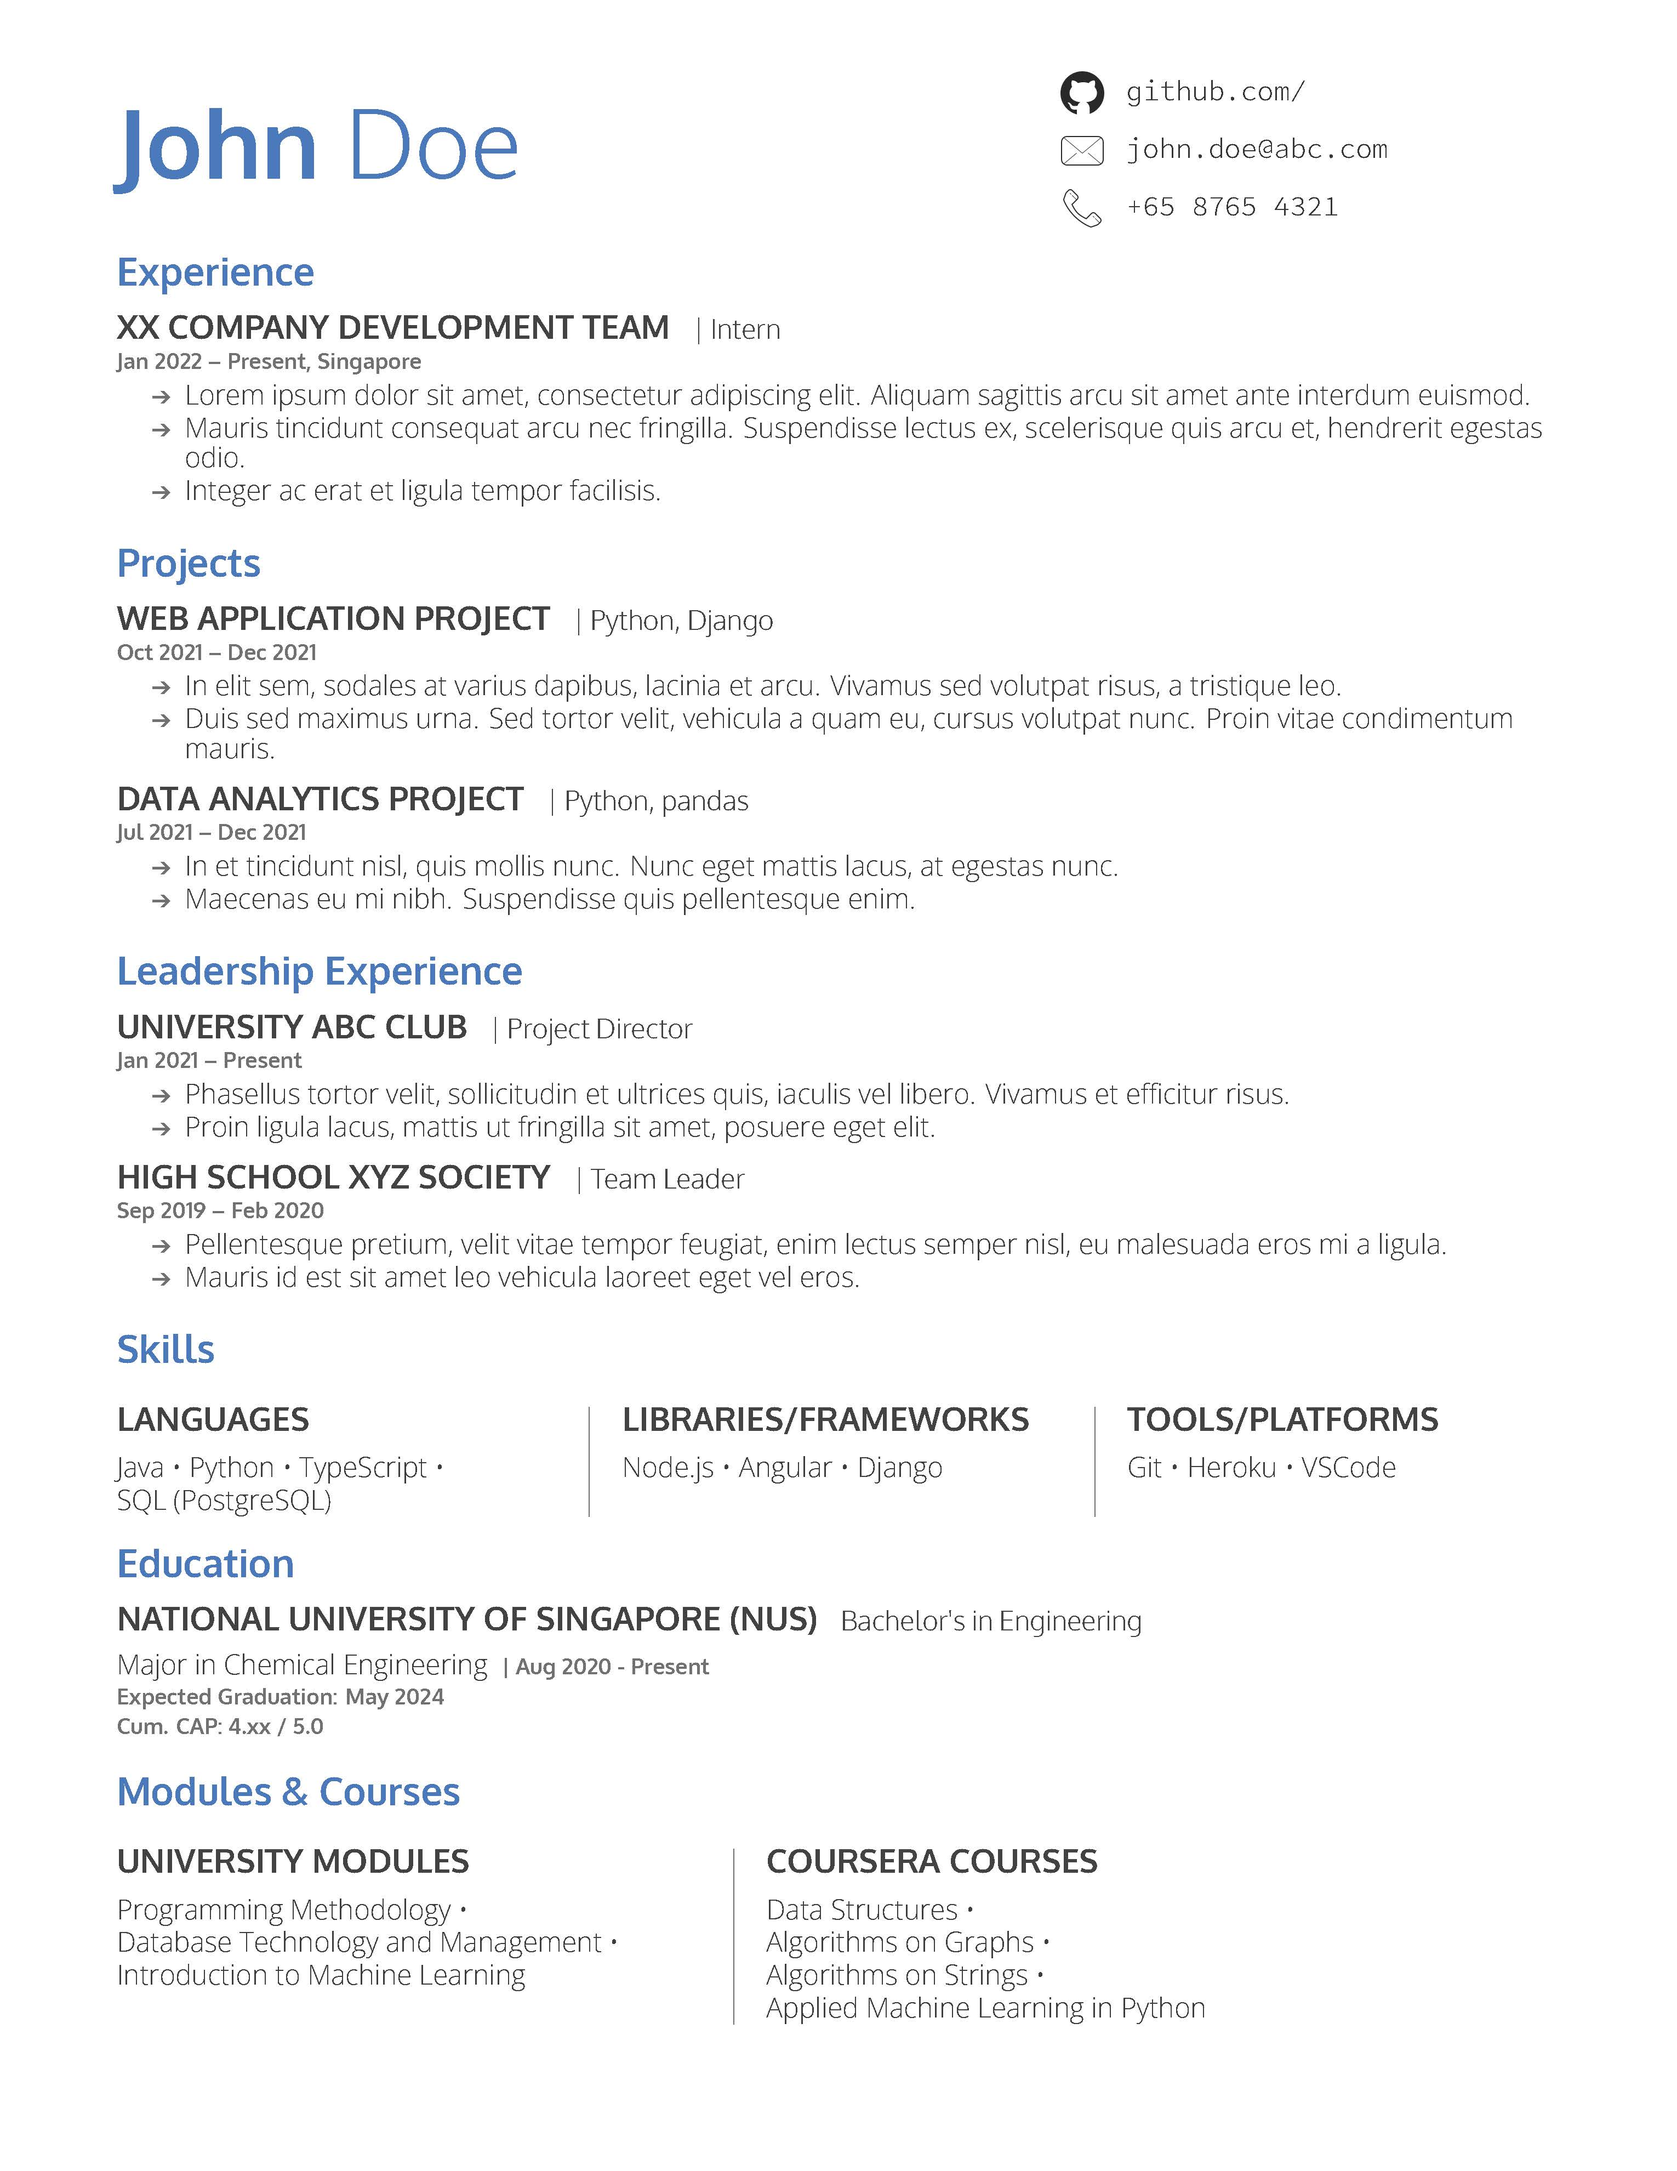
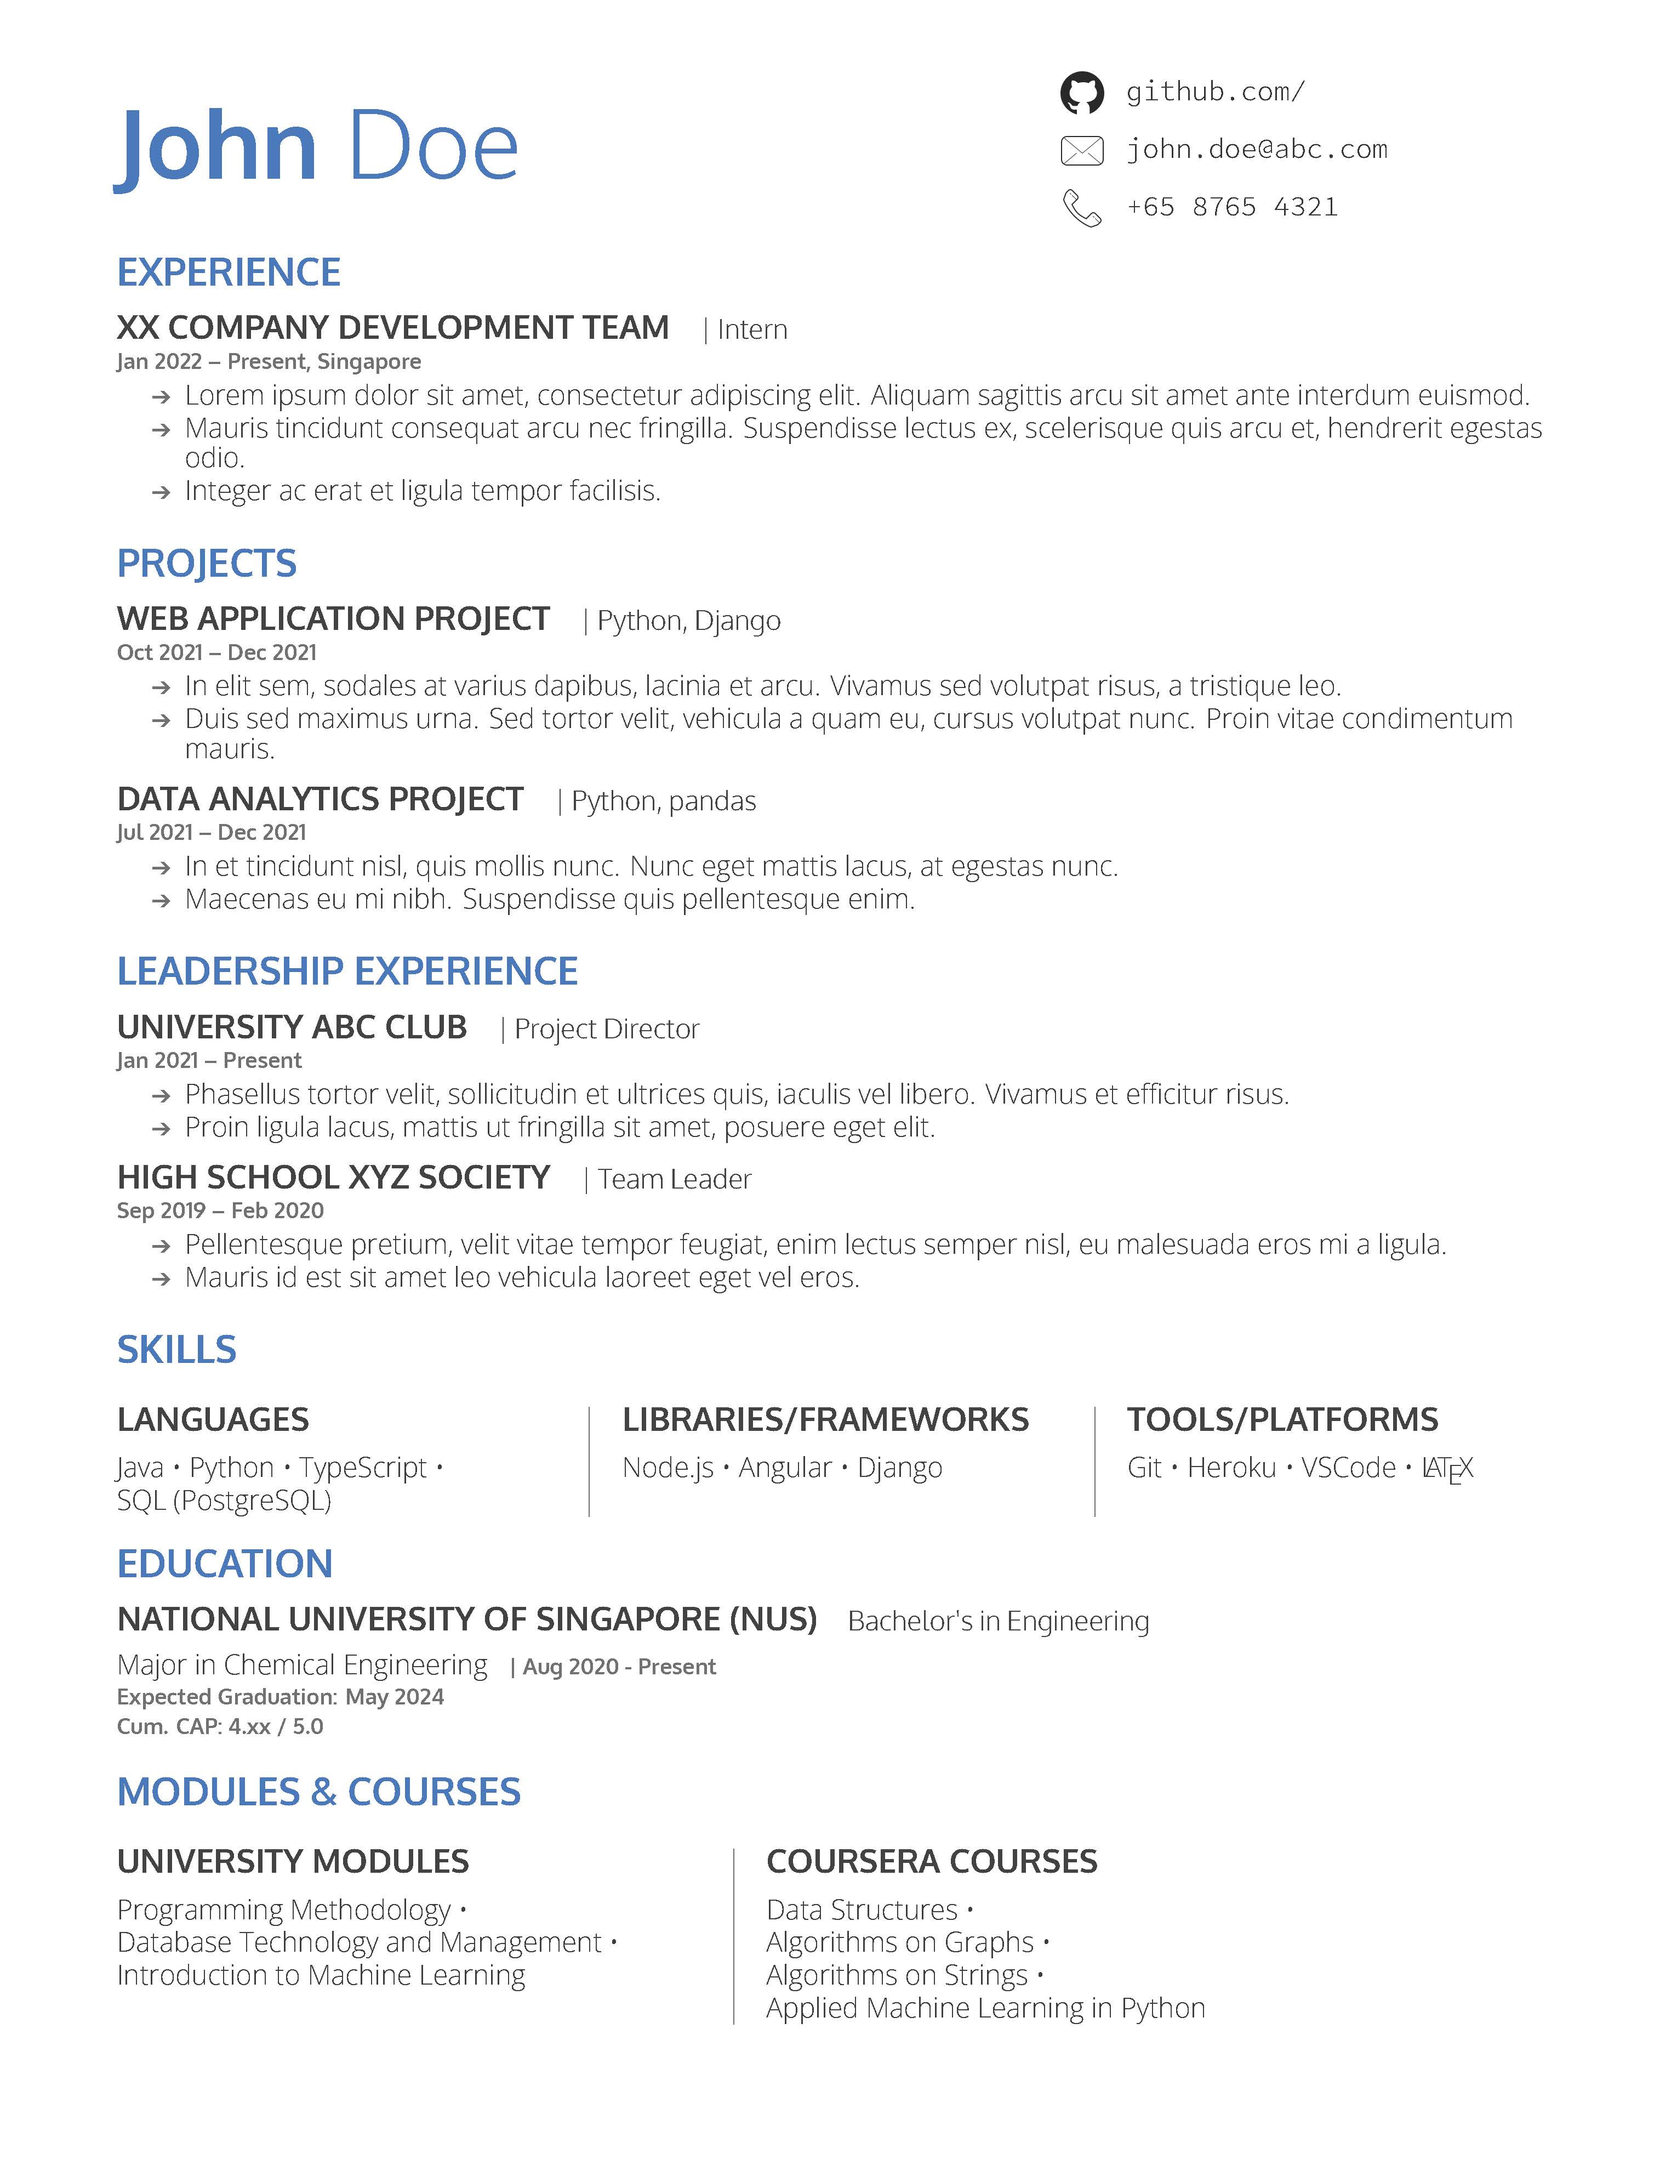
minor update

diff --git a/resume.tex b/resume.tex
@@ -134,7 +134,7 @@
 \begin{minipage}[t]{0.3\textwidth} 
     \runsubsection{Tools/Platforms}
     \sectionsep \\
-    Git \textbullet{} Heroku \textbullet{} VSCode
+    Git \textbullet{} Heroku \textbullet{} VSCode \textbullet{} \LaTeX
 \end{minipage}
 
 \sectionsep
